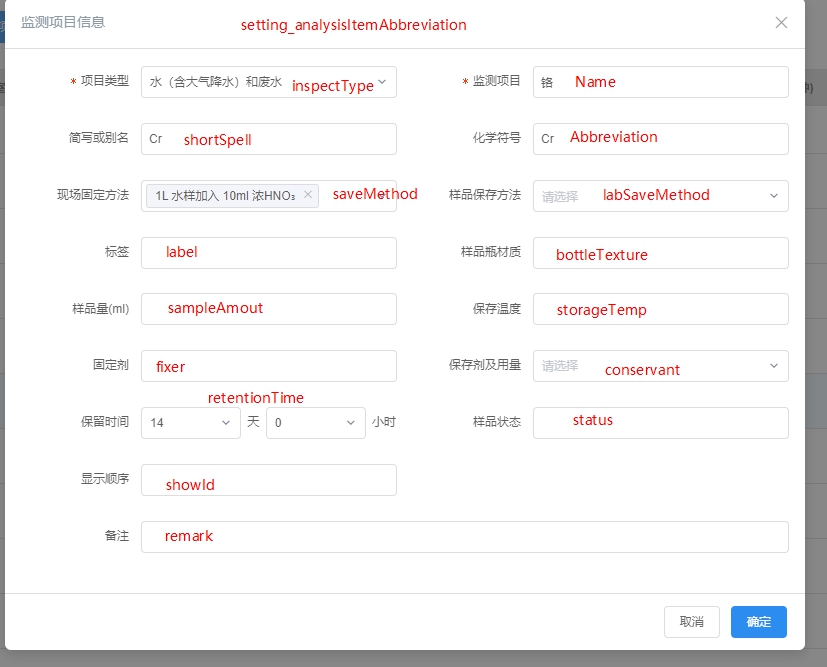
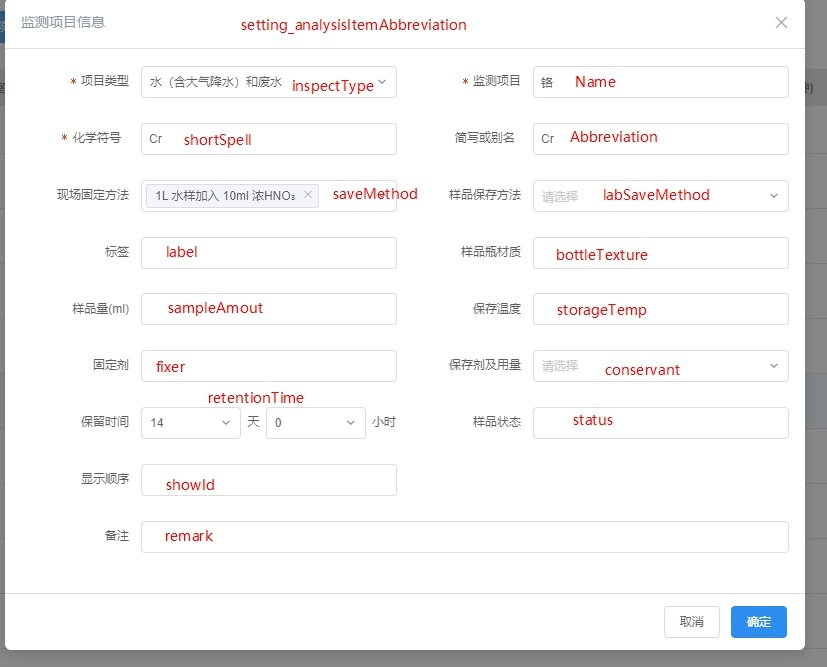
save

diff --git a/newidea/functionDef.md b/newidea/functionDef.md
@@ -1,0 +1,33 @@
+# JS函数表达式与函数声明写法的区别
+在Javascript中定义函数有多种方法
+函数声明写法（Function Declaration）
+```javascript
+function add(...args) {
+	return args.reduce((preValue,curValue)=> preValue + curValue,0)
+}
+```
+函数表达式（Function expression）
+```javascript
+let add = function (...args) {
+	return args.reduce((preValue,curValue)=> preValue + curValue,0)
+}
+```
+两者的区别在于什么时候可以调用该函数。
+函数声明写法可以在函数代码位置定义之前就可以调用。
+```javascript
+console.log(add(1,2));
+function add(...args) {
+	return args.reduce((preValue,curValue)=> preValue + curValue,0)
+}
+
+// 3
+```
+函数表达式定义的函数在表达式之后才可以调用
+```javascript
+console.log(add(1,2));
+let add = function (...args) {
+	return args.reduce((preValue,curValue)=> preValue + curValue,0)
+};
+
+// Uncaught ReferenceError: add is not defined
+```

diff --git a/landscape/databaseFiledMeaning/st_mainsample样品表.md b/landscape/databaseFiledMeaning/st_mainsample样品表.md
@@ -18,13 +18,17 @@
 
 样品类型，示例值：1，代表普通样品。
 
-| 样品代码 | 样品类型     |
-| -------- | ------------ |
-| 1        | 普通样品     |
-| 9        | 室内平行样   |
-| 10       | 室内空白样   |
-| 11       | 室内加标样   |
-| 12       | 室内标准物质 |
+
+
+| 样品代码 | 样品类型     | 表                               |
+| -------- | ------------ | -------------------------------- |
+| 1        | 普通样品     |                                  |
+| 2        | 室外平行     |                                  |
+| 3        | 室外空白     |                                  |
+| 9        | 室内平行样   | ST_MainSample_QC_Paralel         |
+| 10       | 室内空白样   | ST_MainSample_QC_Blank           |
+| 11       | 室内加标样   | ST_MainSample_QC_AddedSpecimen   |
+| 12       | 室内标准物质 | ST_MainSample_QC_StandardControl |
 
 
 

diff --git a/FrontendNotes/Vue基础笔记.md b/FrontendNotes/Vue基础笔记.md
@@ -1,5 +1,3 @@
-                                                                                                                                                                                                                                                                                                                                                                                                                                                      b'b'b'b'b'b'b'b'b'b'b'b'b'b'b'b'b'b'b
-
 # 笔记
 
 > 本笔记来自于[尚硅谷](https://www.bilibili.com/video/BV1Zy4y1K7SH)张天禹老师课程笔记,我在其笔记基础上记录一些自己的个人理解.

diff --git a/FrontendNotes/skyland框架笔记.md b/FrontendNotes/skyland框架笔记.md
@@ -659,6 +659,18 @@ define([], function () {
 
 demo中，此文件存储在`/web/config/websheettags/xxx.js`
 
+
+
+##### autocomplete
+
+自动填充
+
+type = "autocomplete" options = "$userdata.SecondCode"
+
+
+
+
+
 #### cells
 
 cells定义了每个单元格的样式，默认文本

diff --git a/landscape/databaseFiledMeaning/setting_analysisItemAbbreviation检测项目设置.md b/landscape/databaseFiledMeaning/setting_analysisItemAbbreviation检测项目设置.md
@@ -14,6 +14,9 @@
 ## InspectType
 检测类型，大类，如水（含大气降水）和废水
 ## ShortSpell
+
+化学符号
+
 ## Remark
 ## ShowId
 ## _InspectSubType

diff --git a/landscape/databaseFiledMeaning/setting_analysemethod分析标准.md b/landscape/databaseFiledMeaning/setting_analysemethod分析标准.md
@@ -1,5 +1,7 @@
 # setting_analysemethod
 
+![图示](../images/setting_analysisMethodFig1.jpg)
+
 分析方法设置表，记录所有分析标准。
 
 方法废止
